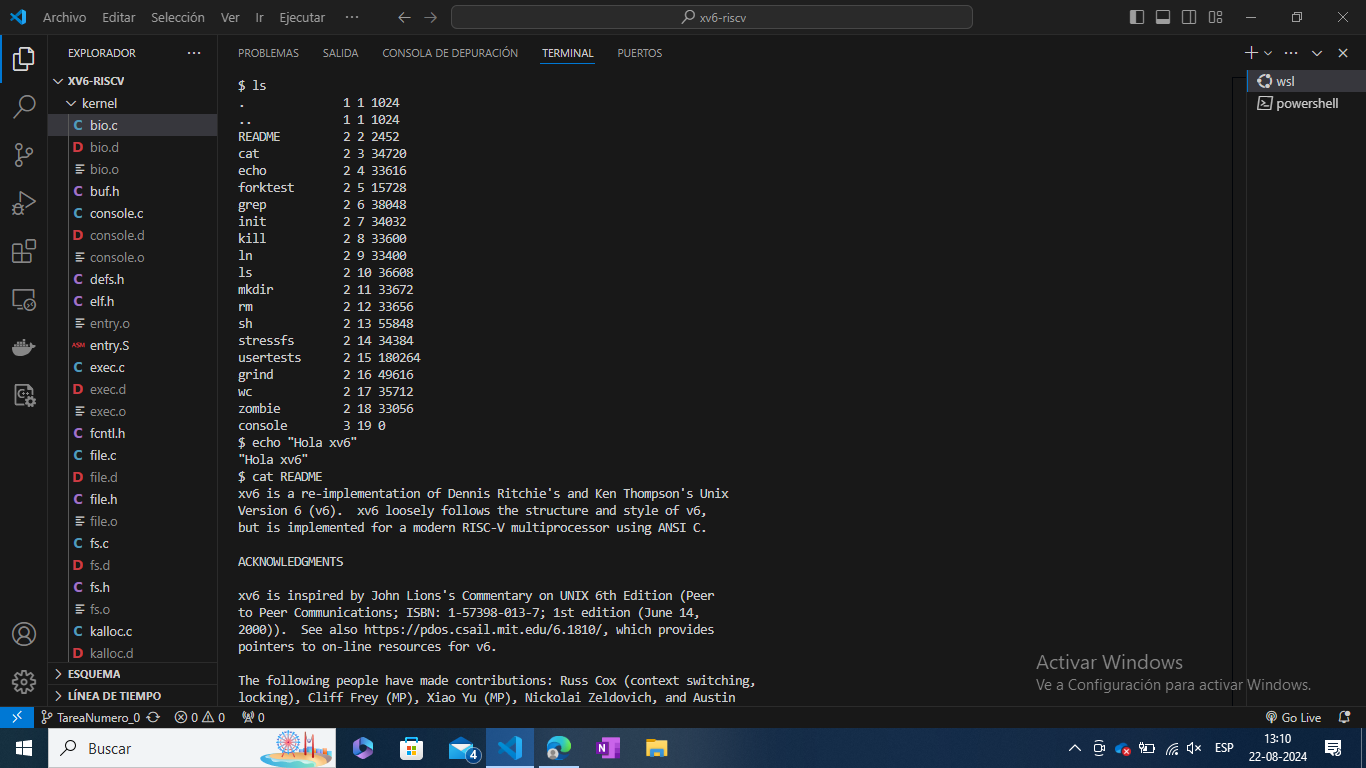
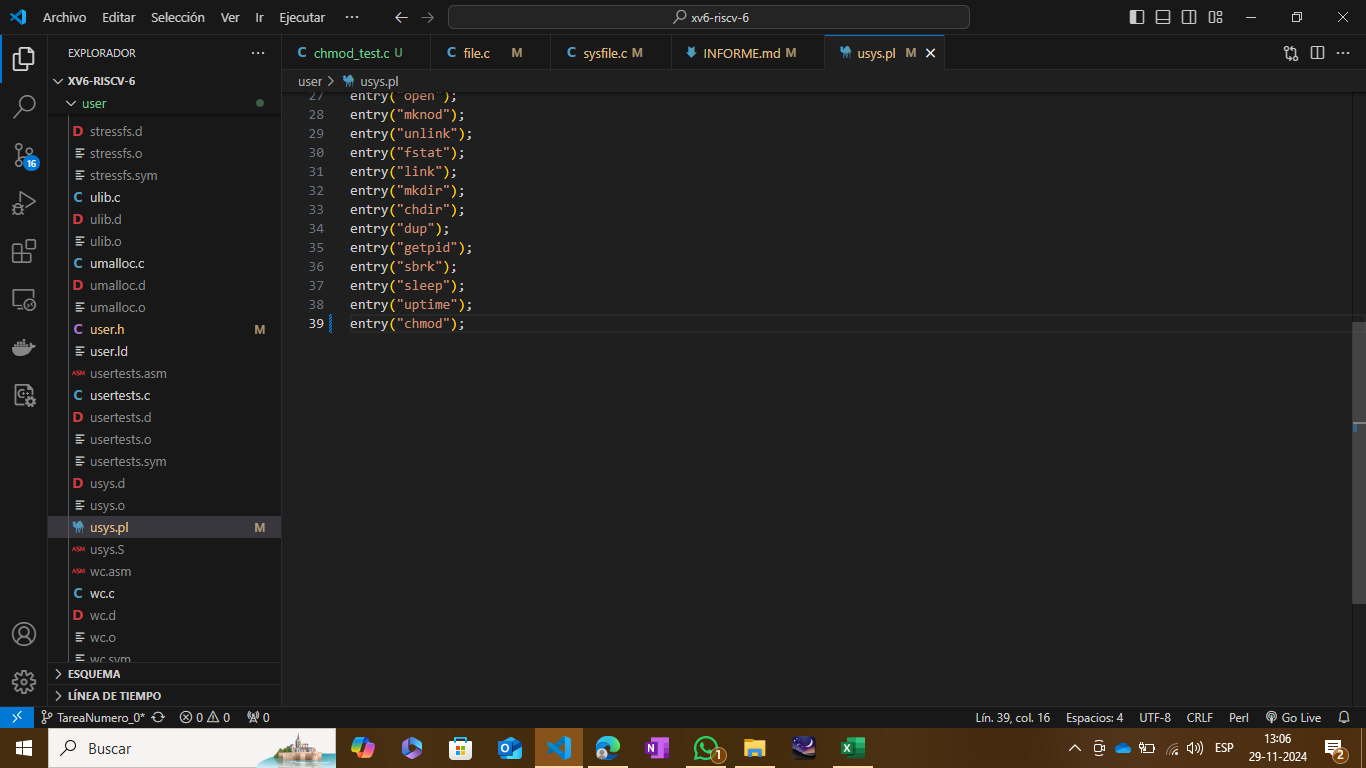
Implementación tarea 4

diff --git a/kernel/sysfile.c b/kernel/sysfile.c
@@ -83,16 +83,32 @@ uint64
 sys_write(void)
 {
   struct file *f;
+  struct inode *ip;
   int n;
   uint64 p;
-  
+
+  // Obtener argumentos
   argaddr(1, &p);
   argint(2, &n);
-  if(argfd(0, 0, &f) < 0)
-    return -1;
+  if (argfd(0, 0, &f) < 0) {
+    return -1; // Error al obtener el archivo
+  }
 
+  // Obtener el inode del archivo
+  ip = f->ip;
+  if (ip == 0) {
+    return -1; // No se pudo encontrar el inode
+  }
+
+  // Verificar permisos
+  if (ip->perm == 1 || ip->perm == 5) {
+    return -1; // No se puede escribir
+  }
+
+  // Escribir en el archivo
   return filewrite(f, p, n);
 }
+
 
 uint64
 sys_close(void)
@@ -349,6 +365,21 @@ sys_open(void)
     return -1;
   }
 
+  // Validar permisos del inodo
+  if (ip->perm == 1 && (omode & O_WRONLY || omode & O_RDWR)) {
+    fileclose(f);
+    iunlockput(ip);
+    end_op();
+    return -1;
+  }
+
+  if (ip->perm == 5) {
+    fileclose(f);
+    iunlockput(ip);
+    end_op();
+    return -1;
+  }
+
   if(ip->type == T_DEVICE){
     f->type = FD_DEVICE;
     f->major = ip->major;
@@ -369,6 +400,7 @@ sys_open(void)
 
   return fd;
 }
+
 
 uint64
 sys_mkdir(void)
@@ -502,4 +534,42 @@ sys_pipe(void)
     return -1;
   }
   return 0;
+}
+
+uint64 sys_chmod(void) {
+  char path[128];  // Definir un arreglo de caracteres con tamaño fijo
+  int mode;
+
+  // Obtener los argumentos
+  if (argstr(0, path, sizeof(path)) < 0) {  // argstr retorna -1 en caso de error
+    return -1;  // Error al obtener la cadena del path
+  }
+  argint(1, &mode);  // argint no devuelve valor, solo asigna directamente
+
+  // Validar que el modo sea permitido
+  if (mode < 0 || mode > 5) {
+    return -1;  // Modo inválido
+  }
+
+  struct inode *ip;
+  begin_op();
+  if ((ip = namei(path)) == 0) {
+    end_op();
+    return -1;  // Error al encontrar el inode
+  }
+  ilock(ip);
+
+  // Si es inmutable, no se puede cambiar el permiso
+  if (ip->perm == 5) {
+    iunlockput(ip);
+    end_op();
+    return -1;  // No se puede cambiar el permiso de este inode
+  }
+
+  // Cambiar permisos
+  ip->perm = mode;
+  iupdate(ip);
+  iunlockput(ip);
+  end_op();
+  return 0;  // Éxito
 }

diff --git a/user/chmod_test.c b/user/chmod_test.c
@@ -1,0 +1,65 @@
+#include "kernel/types.h"
+#include "kernel/stat.h"
+#include "user/user.h"
+#include "kernel/fcntl.h"
+
+int main() {
+  char *filename = "testfile";
+
+  // Crear archivo
+  int fd = open(filename, O_CREATE | O_RDWR);
+  if (fd < 0) {
+    printf("Error: No se pudo crear el archivo.\n");
+    exit(1);
+  }
+
+  // Escribir en el archivo
+  write(fd, "test", 4);
+  close(fd); // Cerrar correctamente el archivo creado.
+
+  // Cambiar permisos a solo lectura
+  if (chmod(filename, 1) < 0) {
+    printf("Error: No se pudo cambiar a solo lectura.\n");
+    exit(1);
+  }
+
+  // Intentar escribir (debería fallar)
+  fd = open(filename, O_WRONLY);
+  if (fd >= 0) {
+    printf("Error: Se pudo abrir en modo escritura.\n");
+    close(fd);
+  } else {
+    printf("Correcto: No se pudo abrir en modo escritura.\n");
+  }
+
+  // Cambiar permisos a inmutable
+  if (chmod(filename, 5) < 0) {
+    printf("Error: No se pudo cambiar a inmutable.\n");
+    exit(1);
+  }
+
+  // Intentar escribir de nuevo (debería fallar)
+  fd = open(filename, O_WRONLY);
+  if (fd >= 0) {
+    printf("Error: Se pudo abrir en modo escritura.\n");
+    close(fd);
+  } else {
+    printf("Correcto: No se pudo abrir en modo escritura.\n");
+  }
+
+  // Intentar cambiar permisos (debería fallar)
+  if (chmod(filename, 3) < 0) {
+    printf("Correcto: No se pudo cambiar permisos de un archivo inmutable.\n");
+  } else {
+    printf("Error: Se pudo cambiar permisos de un archivo inmutable.\n");
+  }
+
+  // Borrar el archivo al final
+  if (unlink(filename) < 0) {
+    printf("Error: No se pudo borrar el archivo.\n");
+  } else {
+    printf("Archivo eliminado correctamente.\n");
+  }
+
+  exit(0);
+}

diff --git a/kernel/file.c b/kernel/file.c
@@ -61,9 +61,17 @@ fileclose(struct file *f)
 {
   struct file ff;
 
+  printf("Debug: Cerrando archivo con ref=%d, tipo=%d\n", f->ref, f->type);
+
   acquire(&ftable.lock);
+
+  if (f->ref < 1) {
+    printf("Debug: Archivo con referencia inválida (ref=%d, tipo=%d)\n", f->ref, f->type);
+    panic("fileclose: referencia inválida");
+  }
+
   if(f->ref < 1)
-    panic("fileclose");
+    panic("fileclose: referencia inválida");
   if(--f->ref > 0){
     release(&ftable.lock);
     return;
@@ -74,13 +82,18 @@ fileclose(struct file *f)
   release(&ftable.lock);
 
   if(ff.type == FD_PIPE){
+    printf("Debug: Cerrando un FD_PIPE\n");
     pipeclose(ff.pipe, ff.writable);
   } else if(ff.type == FD_INODE || ff.type == FD_DEVICE){
+    printf("Debug: Cerrando un FD_INODE o FD_DEVICE\n");
     begin_op();
     iput(ff.ip);
     end_op();
+  } else {
+    printf("Debug: Tipo de archivo no reconocido: %d\n", ff.type);
   }
 }
+
 
 // Get metadata about file f.
 // addr is a user virtual address, pointing to a struct stat.

diff --git a/kernel/fs.c b/kernel/fs.c
@@ -202,15 +202,16 @@ ialloc(uint dev, short type)
   struct buf *bp;
   struct dinode *dip;
 
-  for(inum = 1; inum < sb.ninodes; inum++){
+  for (inum = 1; inum < sb.ninodes; inum++) {
     bp = bread(dev, IBLOCK(inum, sb));
-    dip = (struct dinode*)bp->data + inum%IPB;
-    if(dip->type == 0){  // a free inode
-      memset(dip, 0, sizeof(*dip));
-      dip->type = type;
-      log_write(bp);   // mark it allocated on the disk
+    dip = (struct dinode*)bp->data + inum % IPB;
+    if (dip->type == 0) {  // un inode libre
+      memset(dip, 0, sizeof(*dip));  // limpiar el contenido del dinode
+      dip->type = type;             // establecer el tipo
+      dip->perm = 3;                // inicializar los permisos a lectura/escritura
+      log_write(bp);                // marcarlo como asignado en disco
       brelse(bp);
-      return iget(dev, inum);
+      return iget(dev, inum);       // obtener el inode en memoria
     }
     brelse(bp);
   }

diff --git a/kernel/fs.h b/kernel/fs.h
@@ -30,13 +30,16 @@ struct superblock {
 
 // On-disk inode structure
 struct dinode {
-  short type;           // File type
-  short major;          // Major device number (T_DEVICE only)
-  short minor;          // Minor device number (T_DEVICE only)
-  short nlink;          // Number of links to inode in file system
-  uint size;            // Size of file (bytes)
-  uint addrs[NDIRECT+1];   // Data block addresses
+  short type;             // File type
+  short major;            // Major device number (T_DEVICE only)
+  short minor;            // Minor device number (T_DEVICE only)
+  short nlink;            // Number of links to inode in file system
+  uint size;              // Size of file (bytes)
+  uint addrs[NDIRECT+1];  // Data block addresses
+  int perm;               // Permissions
+  char pad[60];            // Padding to align size to 128 bytes
 };
+
 
 // Inodes per block.
 #define IPB           (BSIZE / sizeof(struct dinode))

diff --git a/kernel/syscall.c b/kernel/syscall.c
@@ -101,6 +101,7 @@ extern uint64 sys_unlink(void);
 extern uint64 sys_link(void);
 extern uint64 sys_mkdir(void);
 extern uint64 sys_close(void);
+extern uint64 sys_chmod(void);
 
 // An array mapping syscall numbers from syscall.h
 // to the function that handles the system call.
@@ -126,6 +127,7 @@ static uint64 (*syscalls[])(void) = {
 [SYS_link]    sys_link,
 [SYS_mkdir]   sys_mkdir,
 [SYS_close]   sys_close,
+[SYS_chmod] sys_chmod,
 };
 
 void

diff --git a/kernel/file.h b/kernel/file.h
@@ -27,6 +27,7 @@ struct inode {
   short nlink;
   uint size;
   uint addrs[NDIRECT+1];
+  int perm;
 };
 
 // map major device number to device functions.

diff --git a/user/user.h b/user/user.h
@@ -41,3 +41,5 @@ void *memcpy(void *, const void *, uint);
 // umalloc.c
 void* malloc(uint);
 void free(void*);
+
+int chmod(const char *path, int mode);

diff --git a/kernel/syscall.h b/kernel/syscall.h
@@ -20,3 +20,4 @@
 #define SYS_link   19
 #define SYS_mkdir  20
 #define SYS_close  21
+#define SYS_chmod 22

diff --git a/INFORME.md b/INFORME.md
@@ -1,42 +1,43 @@
-Configuración del Entorno
+Para la tarea 4
+Lo primero fué agregar la nueva llamada a sistema "chmod" en los diferentes archivos. 
 
-Paso 1: Instalación de Ubuntu en WSL
-Instalé WSL (Windows Subsystem for Linux) en mi computadora Windows siguiendo los pasos oficiales de Microsoft.
-Luego, descargué e instalé Ubuntu desde Chrome.
+![Primer Cambio](Capturas/captura1.png)
 
-Paso2: Configurara VScode
-Configuré VSCode para trabajar con el entorno de desarrollo WSL, instalando las extensiones necesarias para la integración.
+En segundo lugar se agrega la funcion en usys.pl que es un generador del archivo usys.S.
 
-Paso 3: Instalación de Herramientas de Desarrollo
-En Ubuntu, instalé las herramientas de desarrollo necesarias para compilar y ejecutar Xv6
+![Segundo Cambio](Capturas/captura2.png)
 
-Paso4: Clonar repositorio
-Cloné el repositorio de Xv6 desde GitHub en mi directorio de trabajo.
-----------------------------------------------------------------------------------------------------------------------------
-Problemas Encontrados y Soluciones
+El tercer paso fue agregar la funcion como llamadas de sistema en el archivo user.h. 
 
-Problema 1: Incompatibilidad con Funciones de Temporización
+![Tercer Cambio](Capturas/captura3.png)
 
-Al intentar compilar y ejecutar Xv6, encontré problemas de compatibilidad con las siguientes funciones en el archivo riscv.h:
-r_stimecmp()
-w_stimecmp(uint64 x)
-r_menvcfg()
-w_menvcfg(uint64 x)
+Se define el numero de llamada a sistema en el archivo syscall.h
 
-Solución:
+![Cuarto Cambio](Capturas/captura4.png)
 
-Comenté temporalmente las funciones mencionadas en riscv.h para evitar que causen errores durante la compilación.
+Se agregaró esta llamada en el archivo syscall.c
 
-Problema 2: Incompatibilidad en el Archivo start.c
+![Quinto Cambio](Capturas/captura5.png)
 
-También encontré un problema al inicializar la interrupción del temporizador en el archivo start.c en la siguiente línea:
-w_stimecmp(r_time() + 1000000);
+Luego de esto se definió el archivo "chmod_test.c" el cual va a ser el responsable de probar la nueva funcion con una llamada de parte del usuario.
 
-Solución:
+![Sexcto Cambio](Capturas/captura6.png)
+![Sexcto Cambio](Capturas/captura7.png)
 
-Comenté la línea mencionada para evitar el error, lo que permitió que Xv6 se ejecutara sin problemas.
-----------------------------------------------------------------------------------------------------------------------------
-Con las funciones comentadas, Xv6 se compila y se ejecuta correctamente en mi entorno configurado en WSL.
+Por último, con respecto al archivo chmod_test.c se realiza la modificación en Makelife para que se reconosca la llamada de usuario de este programa.
 
-![Primera Captura del SO funcionando](Capturas/captura1.png)
-![Seguda Captura del SO funcionando](Capturas/captura2.png)
+![Septimo Cambio](Capturas/captura8.png)
+
+Dentro de las dificultades.
+
+Se encontraron problemas a la hora de implementar la función por lo que se agregaron algunos print en las funcion "fileclose" para visualizar cual era el problema pero no tiene relevancia en la implemantación. 
+
+![Octavo Cambio](Capturas/captura9.png)
+
+Una segunda dificultad fue a la hora de agregar un nuevo valor para la estructura de inode que permitiece manejar los permisos como se muetra a continuacion en la primera de las dos capturas de abajo. Ya que este nuevo valor llevó a una incompativilidad en la estructura de dinode de la memoria fisica ya que esta debía ser divisible por 1024 por lo que fue necesario agregar un valor extra "char pad[60]; // Padding to align size to 128 bytes"
+![Noveno Cambio](Capturas/captura10.png)
+![Noveno Cambio](Capturas/captura11.png)
+
+Por último la prueba de las nuevas función.
+
+![Décimo Cambio](Capturas/captura12.png)
